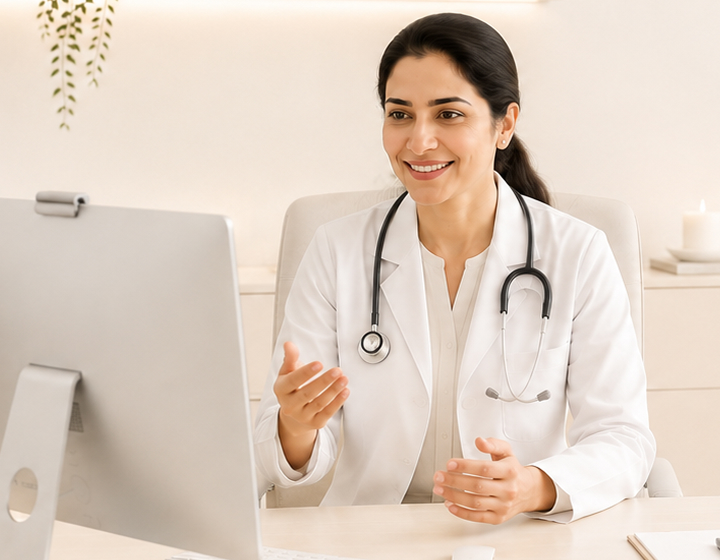
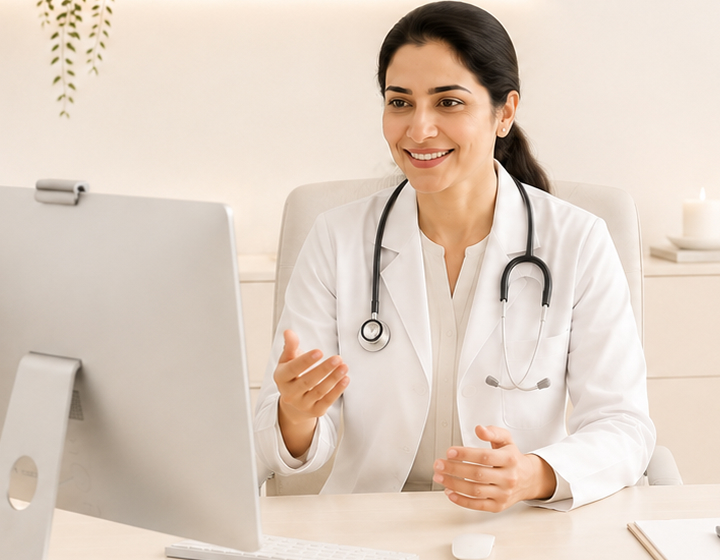
Updated product section

diff --git a/src/index.css b/src/index.css
@@ -200,7 +200,7 @@ body,
   justify-content: center;
   font-size: 15px;
   font-weight: 500;
-  color: #FFFFFF !important;
+  color: #000000 !important;
 }/* dropdown overlay backdrop to close dropdown */
 .dropdown-overlay {
   position: fixed;
